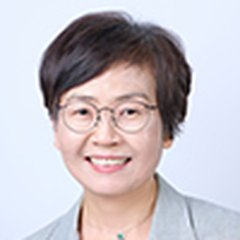
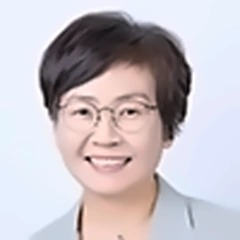
스레드 바로가기 버튼, 교수진 사진 격자 무늬 제거
- 학과장 소개 [3]: @taehyeong_lim 스레드 바로가기 버튼(휴대폰 44px 터치)
- 교수진 사진 9장 다시 만듦: 학교 홈페이지 100×120 원본에서 JPEG 블록 잡티 제거 후 확대(임태형은 증명사진 원본), WebP 고화질로 저장

diff --git a/index.html b/index.html
@@ -15,7 +15,7 @@
 <link rel="preconnect" href="https://fonts.googleapis.com">
 <link rel="preconnect" href="https://fonts.gstatic.com" crossorigin>
 <link href="https://fonts.googleapis.com/css2?family=Gowun+Dodum&family=Noto+Sans+KR:wght@400;500;700;900&display=swap" rel="stylesheet">
-<link rel="stylesheet" href="style.css?v=10">
+<link rel="stylesheet" href="style.css?v=12">
 </head>
 <body>
 
@@ -123,7 +123,7 @@ window.SITE = {
         <li>교육부 AIEDAP 호남권사업지원단 기획위원</li>
         <li>1학년 필수 「AI디지털교육Ⅱ」 담당</li>
         <li>취미는 바이브 코딩: 이 페이지도 AI와 함께 만들었어요</li>
-        <li>스레드에 주로 AI와 교육 이야기를 씁니다: 팔로워 7,000+ <a href="https://www.threads.com/@taehyeong_lim" target="_blank" rel="noopener">@taehyeong_lim</a></li>
+        <li>스레드에 주로 AI와 교육 이야기를 씁니다(팔로워 7,000+)<a class="threads-btn" href="https://www.threads.com/@taehyeong_lim" target="_blank" rel="noopener">@taehyeong_lim 스레드 바로가기 ↗</a></li>
       </ul>
     </article>
   </div>
@@ -214,15 +214,15 @@ window.SITE = {
   </header>
   <!-- 순서는 학교 홈페이지 학과 소개(교수소개)와 동일 -->
   <ul class="prof">
-    <li><img src="img/prof/boo.webp" alt="" loading="lazy"><div><b>부재율</b><span>교육평가</span><small>과정중심평가 · 교육측정</small></div></li>
-    <li><img src="img/prof/eun.webp" alt="" loading="lazy"><div><b>은혁기</b><span>상담심리</span><small>학교상담 · 사회정서학습</small></div></li>
-    <li><img src="img/prof/chung.webp" alt="" loading="lazy"><div><b>정윤경</b><span>교육철학</span><small>현대 교육사상 · 학생 주도성</small></div></li>
-    <li><img src="img/prof/choi.webp" alt="" loading="lazy"><div><b>최병연</b><span>교육심리</span><small>창의성 · 영재교육</small></div></li>
-    <li><img src="img/prof/park.webp" alt="" loading="lazy"><div><b>박종필</b><span>교육행정</span><small>학교 운영 · 교육정책</small></div></li>
-    <li><img src="img/prof/seo.webp" alt="" loading="lazy"><div><b>서유진</b><span>특수교육</span><small>통합교육 · 학습장애 중재</small></div></li>
-    <li><img src="img/prof/lee-ds.webp" alt="" loading="lazy"><div><b>이동성</b><span>교육사회</span><small>질적연구 · 교사의 삶</small></div></li>
-    <li><img src="img/prof/lee-rim.webp" alt="" loading="lazy"><div><b>이림</b><span>교육과정</span><small>2022 개정 교육과정 · 통합 교육과정</small></div></li>
-    <li><img src="img/prof/lim.webp" alt="" loading="lazy"><div><b>임태형</b><span>교육공학</span><small>생성형 AI · 수업영상 분석</small></div><i>학과장</i></li>
+    <li><img src="img/prof/boo.webp?v=2" alt="" loading="lazy"><div><b>부재율</b><span>교육평가</span><small>과정중심평가 · 교육측정</small></div></li>
+    <li><img src="img/prof/eun.webp?v=2" alt="" loading="lazy"><div><b>은혁기</b><span>상담심리</span><small>학교상담 · 사회정서학습</small></div></li>
+    <li><img src="img/prof/chung.webp?v=2" alt="" loading="lazy"><div><b>정윤경</b><span>교육철학</span><small>현대 교육사상 · 학생 주도성</small></div></li>
+    <li><img src="img/prof/choi.webp?v=2" alt="" loading="lazy"><div><b>최병연</b><span>교육심리</span><small>창의성 · 영재교육</small></div></li>
+    <li><img src="img/prof/park.webp?v=2" alt="" loading="lazy"><div><b>박종필</b><span>교육행정</span><small>학교 운영 · 교육정책</small></div></li>
+    <li><img src="img/prof/seo.webp?v=2" alt="" loading="lazy"><div><b>서유진</b><span>특수교육</span><small>통합교육 · 학습장애 중재</small></div></li>
+    <li><img src="img/prof/lee-ds.webp?v=2" alt="" loading="lazy"><div><b>이동성</b><span>교육사회</span><small>질적연구 · 교사의 삶</small></div></li>
+    <li><img src="img/prof/lee-rim.webp?v=2" alt="" loading="lazy"><div><b>이림</b><span>교육과정</span><small>2022 개정 교육과정 · 통합 교육과정</small></div></li>
+    <li><img src="img/prof/lim.webp?v=2" alt="" loading="lazy"><div><b>임태형</b><span>교육공학</span><small>생성형 AI · 수업영상 분석</small></div><i>학과장</i></li>
   </ul>
 </section>
 

diff --git a/style.css b/style.css
@@ -270,6 +270,8 @@ address a { text-decoration-color: var(--accent); text-decoration-thickness: 2px
 .me li::marker { color: var(--sage-d); }
 .me a { color: var(--sage-ink); font-weight: 700; text-decoration: none; }
 .me a:hover, .me a:focus-visible { text-decoration: underline; }
+.me a.threads-btn { display: flex; align-items: center; justify-content: center; gap: 6px; width: fit-content; min-height: 44px; margin: 8px 0 2px; padding: 8px 18px; border-radius: 999px; background: var(--ink); color: #fff; font-weight: 700; text-decoration: none; box-shadow: 0 4px 0 var(--shade); }
+.me a.threads-btn:hover, .me a.threads-btn:focus-visible { background: var(--dark); text-decoration: none; }
 
 /* ─── 태블릿 이상 ─── */
 @media (min-width: 720px) {
@@ -322,6 +324,7 @@ body.presenter .me { padding: 16px 20px 18px; }
 body.presenter .me-pic { aspect-ratio: 2.2 / 1; }
 body.presenter .me h3 { font-size: 1.35em; }
 body.presenter .me ul { font-size: .84em; }
+body.presenter .me a.threads-btn { min-height: 0; padding: 5px 14px; margin-top: 6px; }
 body.presenter .letter-grid { grid-template-columns: minmax(200px, 22%) 1fr; gap: 32px; }
 body.presenter .letter-card { padding: 28px 34px; }
 body.presenter .letter-card p { font-size: 1.22em; }
